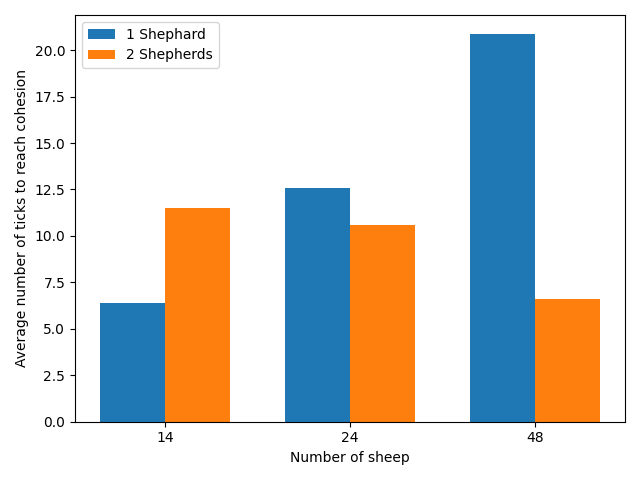
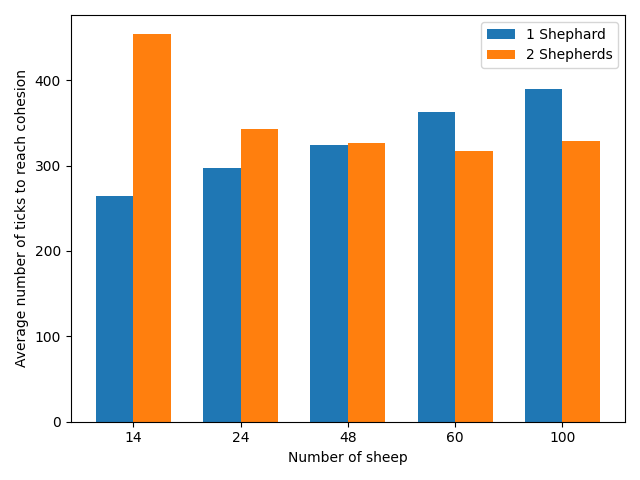
[FIX] Results (omg)

diff --git a/src/sim_runner.py b/src/sim_runner.py
@@ -106,7 +106,7 @@ def original_one_dog_vs_two(cfg):
   plot_all_metrics(inp, "results", "original_model_")
 
 def plot_time_to_goal(cfg):
-  sheep_counts = sorted([14, 24, 48])
+  sheep_counts = sorted([14, 24, 48, 60, 100])
   time_1dog = []
   time_2dogs = []
 
@@ -141,11 +141,11 @@ def plot_time_to_goal(cfg):
     for run in range(N_RUNS):
       cfg.num_shepherds = 1
       sim = Simulation(cfg, seed=SEED + run)
-      time_run_1dog = (time_to_cohesion(sim.steps(STEPS)) / N_RUNS)
+      time_run_1dog += (time_to_cohesion(sim.steps(STEPS)) / N_RUNS)
 
       cfg.num_shepherds = 2
       sim = Simulation(cfg, seed=SEED + run)
-      time_run_2dogs = (time_to_cohesion(sim.steps(STEPS)) / N_RUNS)
+      time_run_2dogs += (time_to_cohesion(sim.steps(STEPS)) / N_RUNS)
 
     time_1dog.append(time_run_1dog)
     time_2dogs.append(time_run_2dogs)
@@ -169,7 +169,7 @@ def plot_time_to_goal(cfg):
 
 """
 
-cfg.num_sheep = 80
+cfg.num_sheep = 14
 sim = Simulation(cfg, seed=SEED)
 sim_steps = sim.steps(steps=3000)
 player = SimulationVisualizer(sim)
